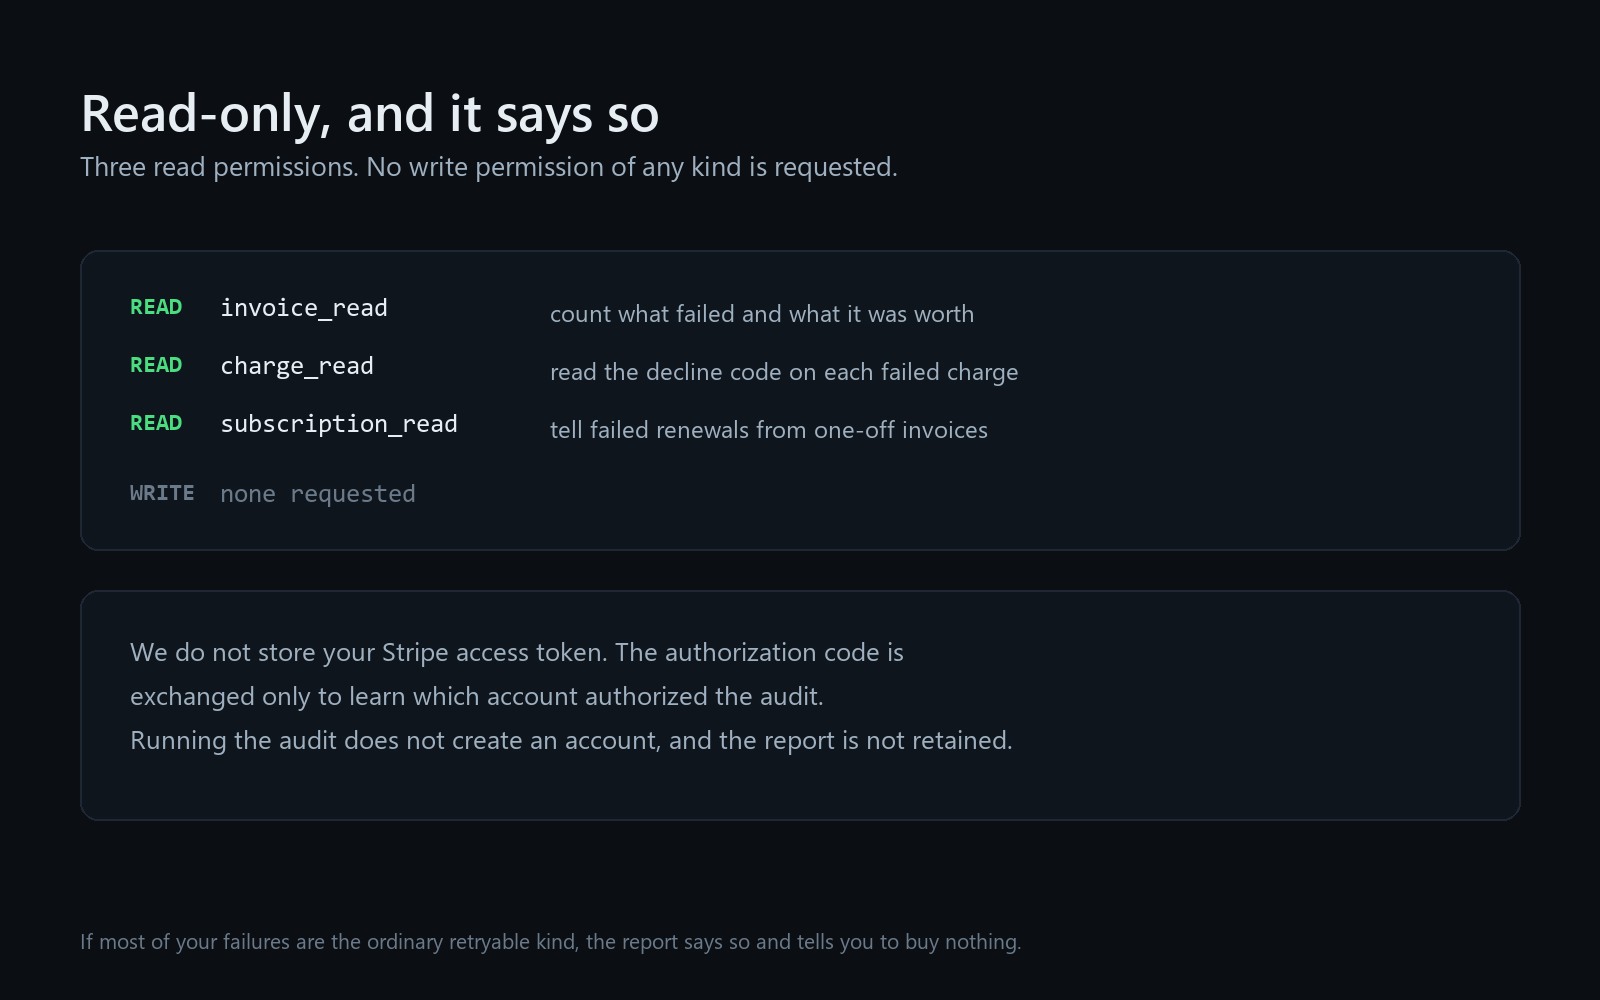
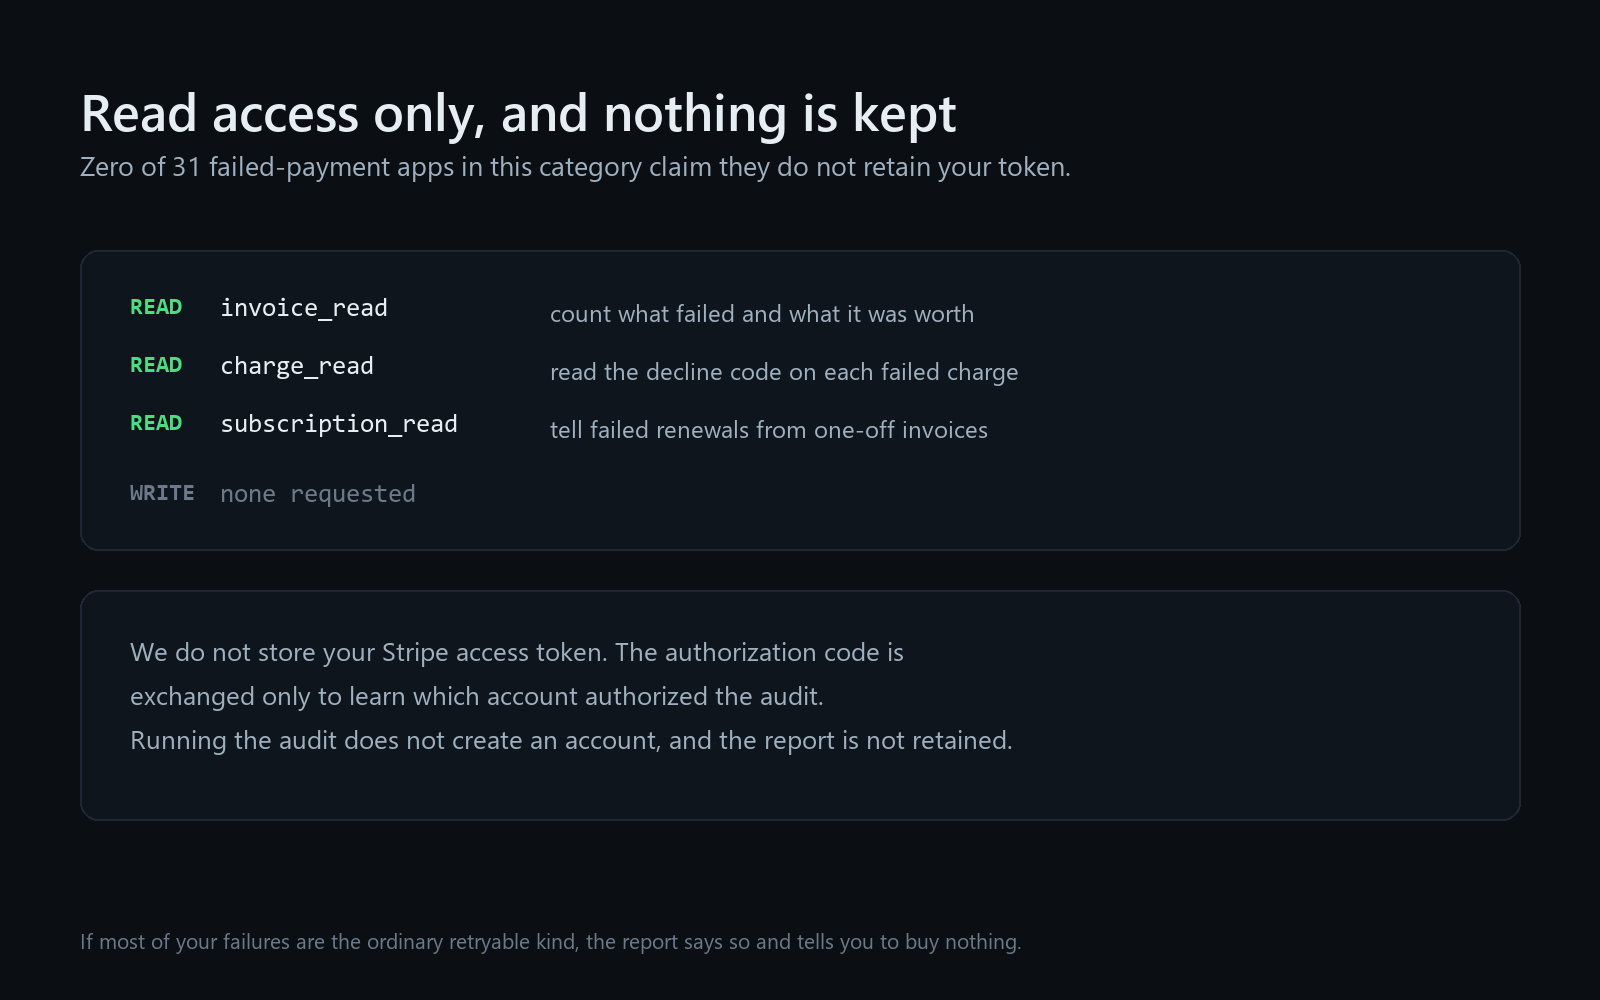
Re-cut feature 3 after measuring the marketplace
Queried Stripe's marketplace JSON endpoint and analysed every app in the
revenue_optimization category instead of reading listings by hand. 683 apps
live, 64 in the category, 31 of them acting on failed payments.

The white space holds and is wider than the hand count suggested. Zero of 31
mention Visa's reattempt cap. Zero of 31 frame the problem as suppressing
retries that cannot succeed; Reecova, the one prior competitor on that, is not
in this category at all. Only 4 of 31 mention decline codes.

The assumption that was wrong: read-only is not a differentiator. 11 of the 31
request no write access, so it is a third of the field, and feature 3 was
leading with a claim a third of our competitors can make truthfully. What is
actually unoccupied is the retention claim: zero of 31 say they do not keep the
token, and we can say it and point at the code, because the reads run on the
platform key and the token is never persisted.

So feature 3 now leads with "Read access only, and nothing is kept" rather than
"Read-only, and it says so", and the image says the same.

Also worth knowing and now written down: free is not a differentiator either,
9 of 31 are free. And the eleven read-only peers all have effectively the same
subtitle, some variant of "recover failed payments automatically". Ours is the
only one in the category describing a different job rather than the same job
done harder, so it stays exactly as written.
[…]

Changed region(s): [[0.0312, 0.093, 0.6562, 0.186]]

diff --git a/scripts/build_listing_images.py b/scripts/build_listing_images.py
@@ -137,10 +137,11 @@ def feature_2():
 
 
 def feature_3():
-    """The trust argument, which is the conversion problem this app exists to solve."""
+    """The trust argument. Leads with token retention, not read-only: 11 of 31 competitors
+    are already read-only, but none of them promise not to keep the token."""
     im, d = canvas()
-    header(d, "Read-only, and it says so",
-           "Three read permissions. No write permission of any kind is requested.")
+    header(d, "Read access only, and nothing is kept",
+           "Zero of 31 failed-payment apps in this category claim they do not retain your token.")
 
     panel(d, 80, 250, W - 160, 300)
     x, y = 130, 296

diff --git a/stripe-app/LISTING.md b/stripe-app/LISTING.md
@@ -113,11 +113,17 @@ detailed use cases. Title, description and image must align.
 > it. The report counts the peak attempts against each card in any rolling 30-day window and
 > flags the ones at or over the ceiling.
 
-**3. Title** (80 max): `Read-only, and it says so`
-**Description** (300 max), 240 characters, measured:
-> Three read permissions, no write permission of any kind. The access token is not stored:
-> the authorization code is exchanged only to identify the account. Running the audit does
-> not create an account with us, and the report is not retained.
+**3. Title** (80 max): `Read access only, and nothing is kept`
+**Description** (300 max), 273 characters, measured:
+> We do not store your Stripe access token. The authorization code is exchanged only to
+> identify the account, and the reads run on our platform key. Three read permissions, no
+> write permission of any kind. Running the audit creates no account, and the report is not
+> retained.
+
+> **Why this wording.** Measured 4 Aug 2026: 11 of the 31 failed-payment apps in
+> `revenue_optimization` already request no write access, so "read-only" is a third of the
+> field. **Zero of 31** claim they do not retain the token. Lead with the part that is
+> actually unoccupied. See COMPETITIVE.md addendum 2.
 
 ### The images, and the one risk in them
 
